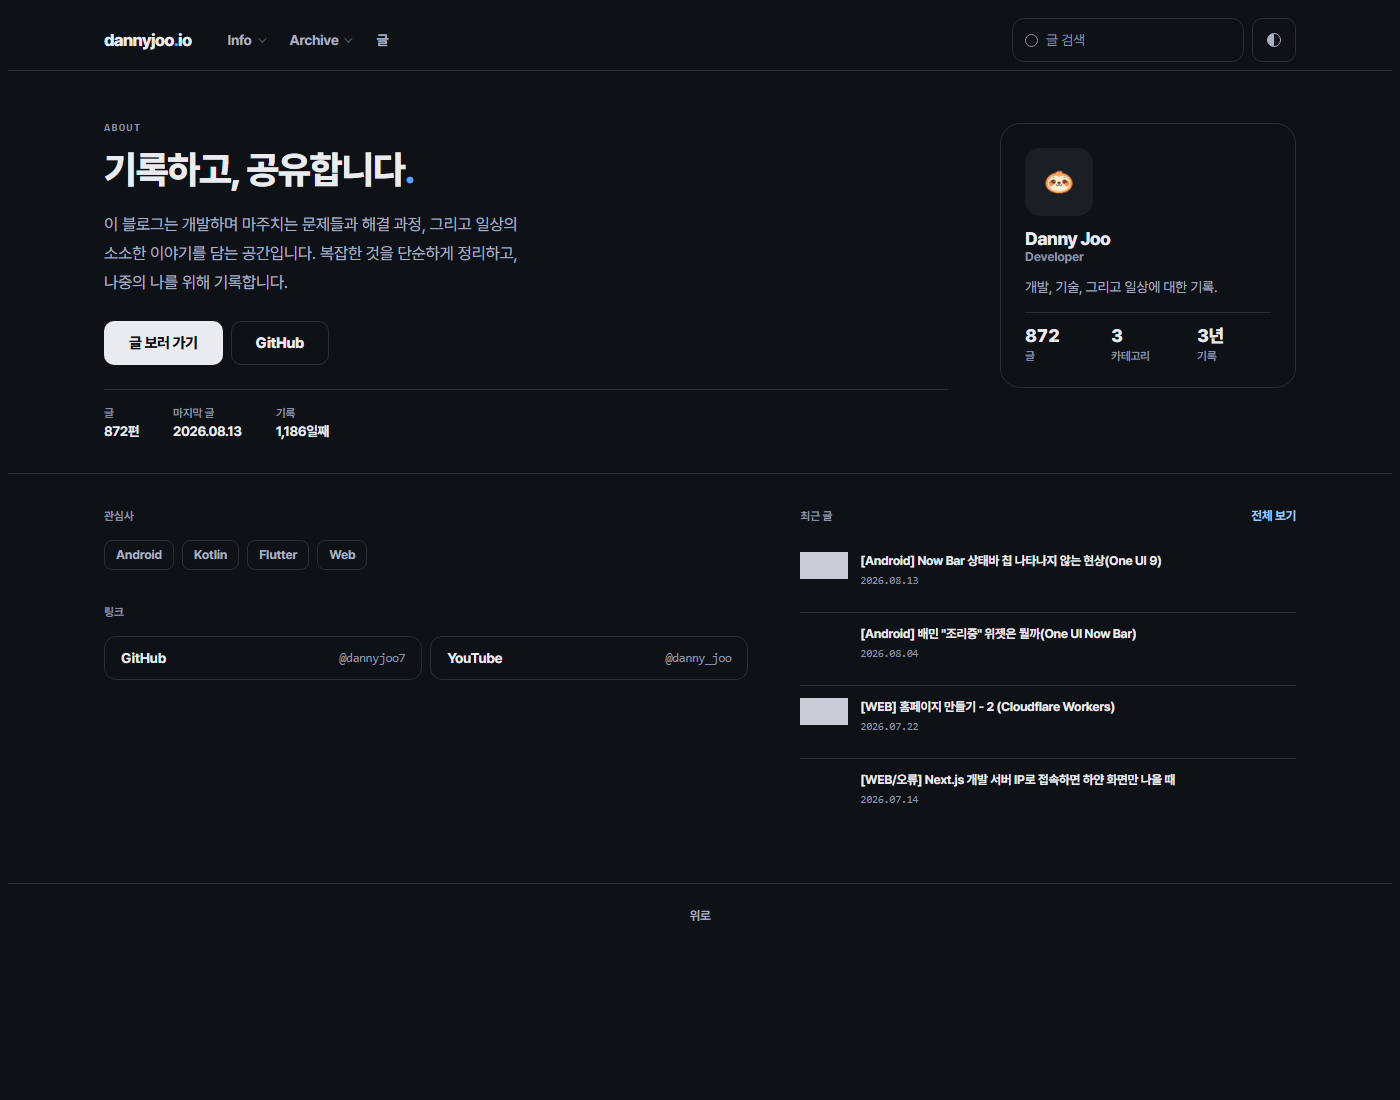
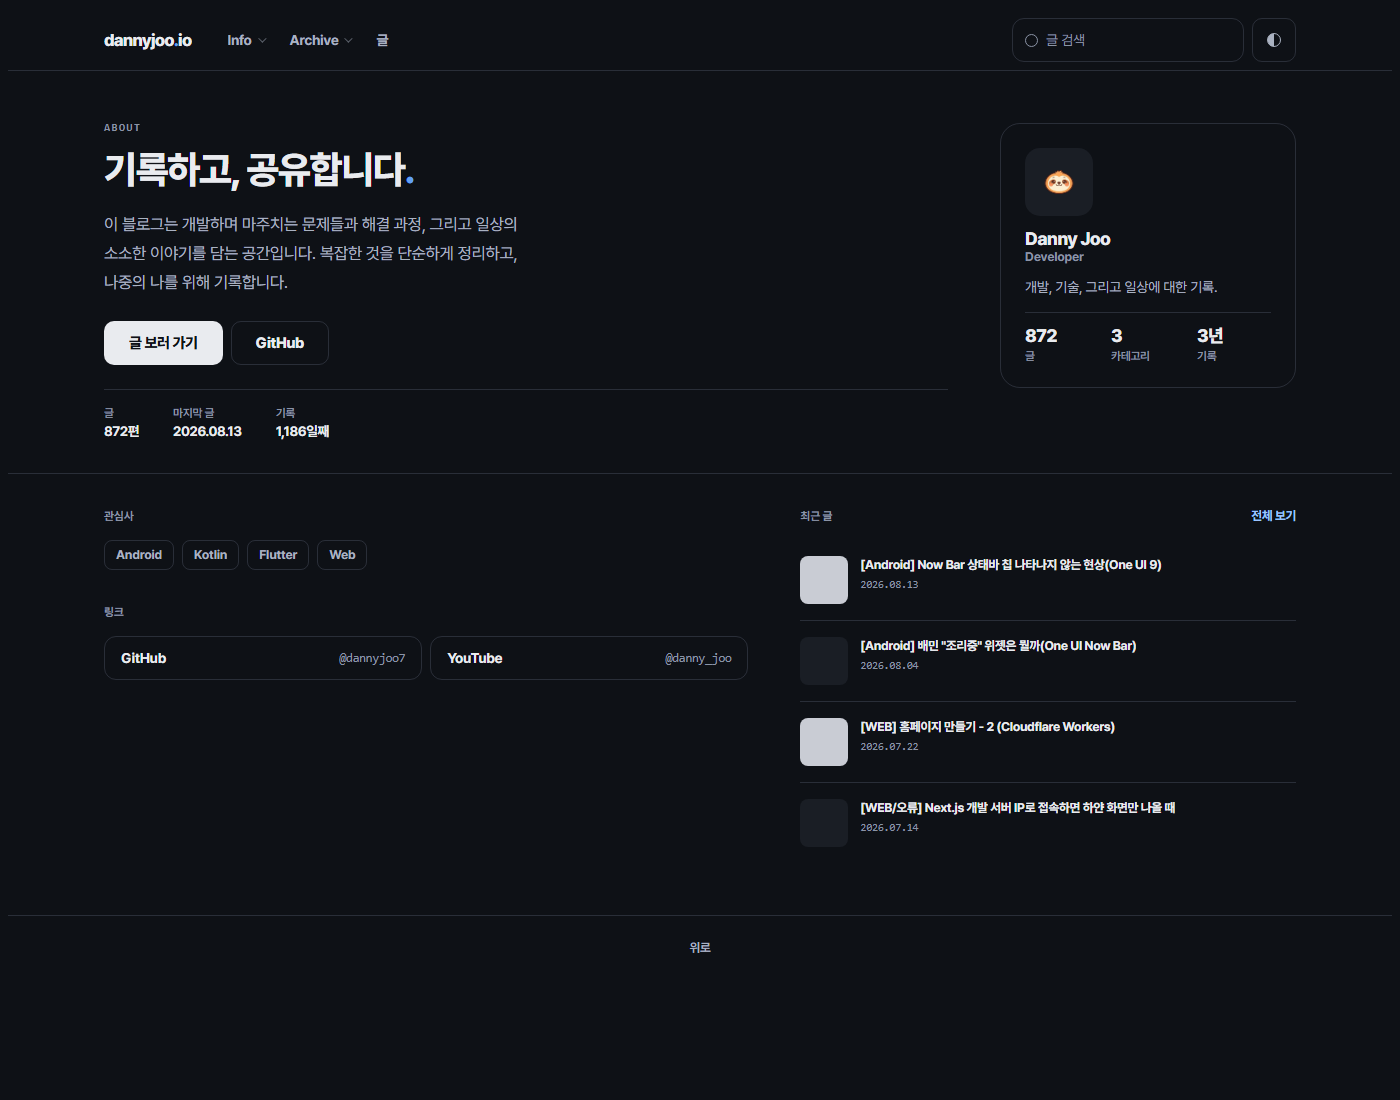
fix: Grain 프로필 숫자 정렬(tabular-nums 제거), 최근 글 썸네일 잘라내기와 줄 간격

Changed region(s): [[0.5529, 0.4945, 0.86, 0.7727], [0.4914, 0.8036, 0.5221, 0.8655], [0.7371, 0.2782, 0.7679, 0.3091]]

diff --git a/design/blog/grain/style.css b/design/blog/grain/style.css
@@ -1259,9 +1259,18 @@ button { cursor: pointer; }
 /* 첫 글(큰 카드) 썸네일. 비율을 안 잡으면 세로로 긴 이미지가 카드를 통째로 늘린다 */
 .article-card--hero .article-card__thumb { aspect-ratio: 4 / 3; max-height: 340px; }
 
-/* 프로필 카드 숫자. 폭이 제각각이라 아래 라벨이 안 맞았다. 3등분으로 고정 */
+/* 프로필 카드 숫자를 3등분으로 고정.
+   tabular-nums 는 뺀다. 모든 숫자를 같은 폭으로 맞추느라 4 처럼 좁은 글자에
+   좌우 여백이 붙어서, 상자는 맞는데 글자가 라벨보다 안쪽으로 밀려 보인다 */
 .profile-card__stats { display: grid; grid-template-columns: repeat(3, 1fr); gap: var(--sp-3); }
 .profile-card__stat { min-width: 0; }
+.profile-card__stat b { font-variant-numeric: normal; }
+
+/* 최근 글. 썸네일이 48x48 상자인데 잘라내질 않아 찌그러졌다.
+   줄 간격도 좁아 위아래 글이 붙어 보인다 */
+.recent-list__item { padding: var(--sp-4) 0; }
+.recent-list__thumb { overflow: hidden; background: var(--fill); }
+.recent-list__thumb img { width: 100%; height: 100%; object-fit: cover; display: block; }
 
 /* 카테고리 새 글 표시. 티스토리 gif 를 걷어내고 점으로 */
 .cat-tree .tt_category a { justify-content: flex-start; }
